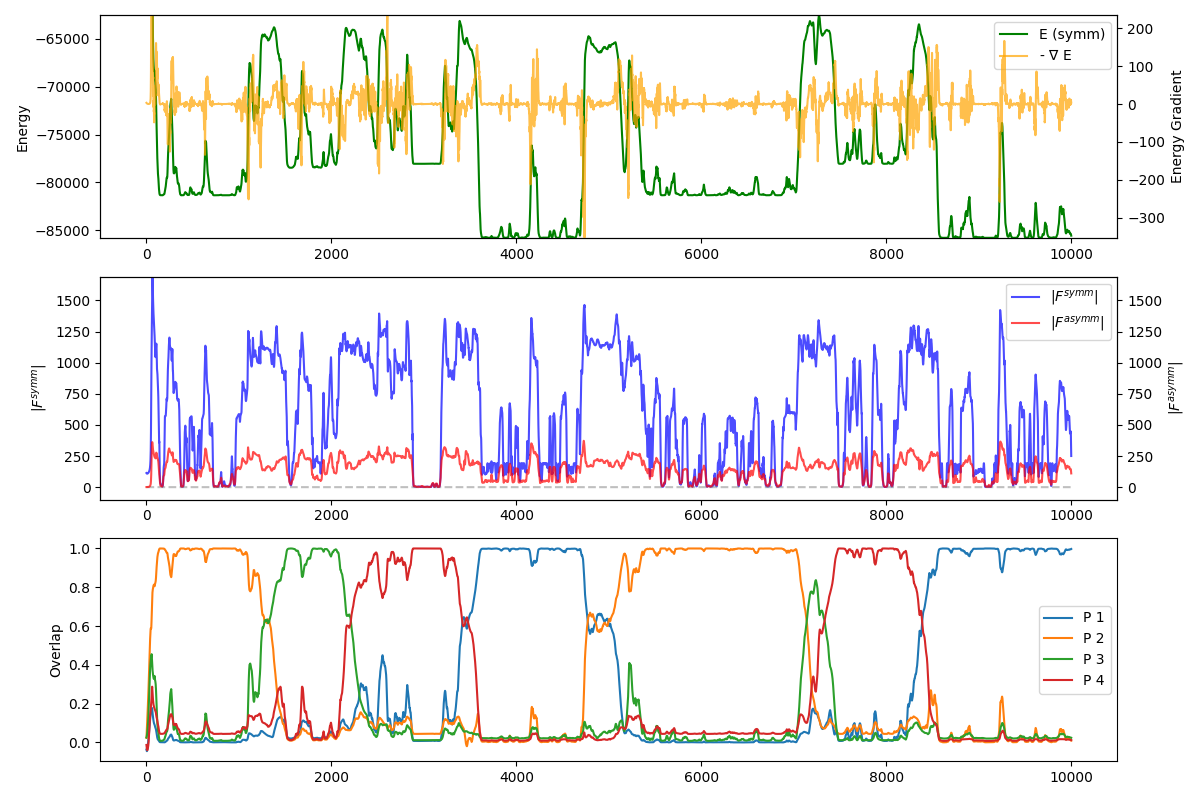
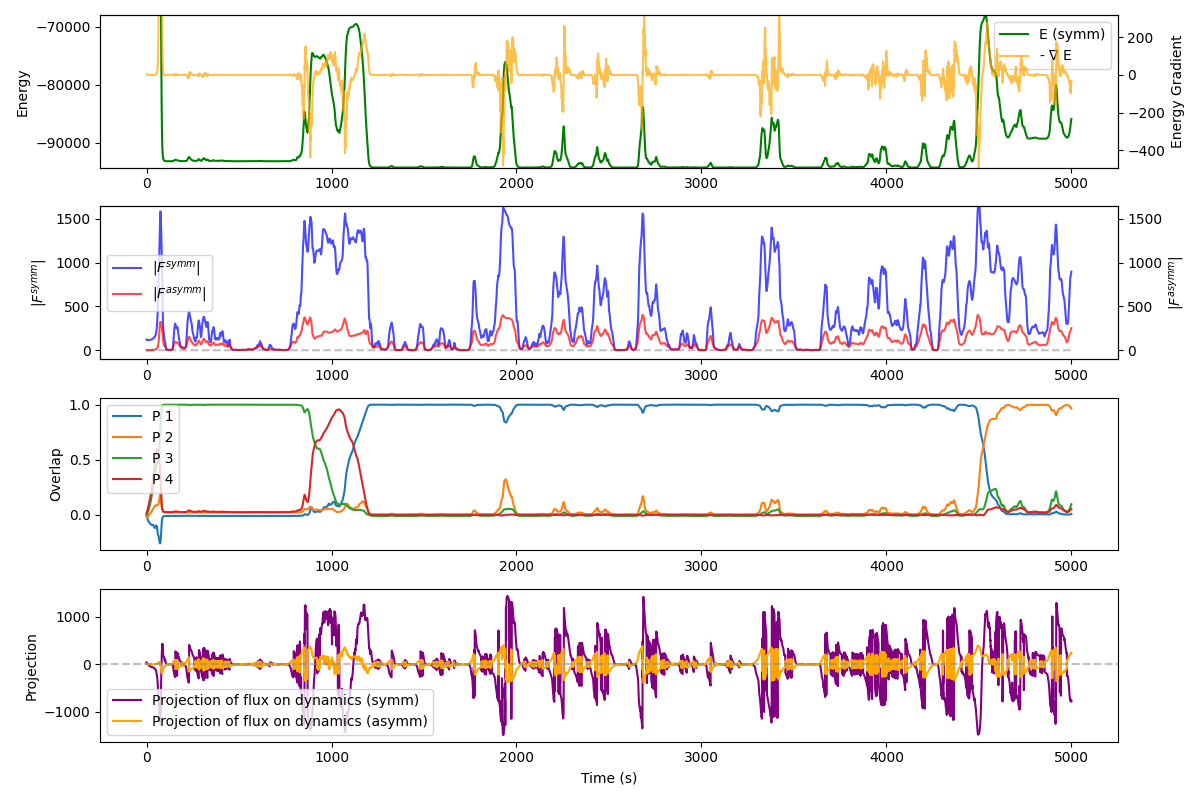
conn load

diff --git a/src/main.py b/src/main.py
@@ -71,7 +71,6 @@ from parameters import (
     runs,
     # Import connectivity or not
     import_connectivity,
-    connectivity_dir,
     # Seed for reproducibility
     seed
     )
@@ -86,14 +85,10 @@ def single_simulation(addition, W_S, W_A_sim, W, eta, phi_eta, t_span, ou_params
     """
     time_start = time.time() # Start time measurement
     np.random.seed(seed)  # for reproducibility
-    # Create output directories and show error message otherwise
-    try:
-        plot_dir = os.path.join(os.path.dirname(__file__), "..", f'{multiple_dir_name}{"_"}{N}', 'plots')
-        npy_dir = os.path.join(os.path.dirname(__file__), "..", f'{multiple_dir_name}{"_"}{N}', "npy")
-    except Exception as e:
-        logger.error(f"Error occurred while setting output directory: {e}")
-    os.makedirs(plot_dir, exist_ok=True)
-    os.makedirs(npy_dir, exist_ok=True)
+    # names of the output directories (already created in multiple_simulations, see below)
+    output_dir = os.path.join(os.path.dirname(__file__), "..", f'{multiple_dir_name}{"_"}{N}')
+    plot_dir = os.path.join(output_dir, 'plots')
+    npy_dir = os.path.join(output_dir, "npy")
 
     # Set up initial condition with proper noise calculation, no pattern index here (random)
     initial_condition = initial_condition_creator(init_cond_type, N, p=p, eta=eta, noise_level=noise_level)
@@ -190,30 +185,30 @@ def multiple_simulations():
     np.random.seed(seed)
 
     # Create the main output directory
-    output_dir_name = f'{multiple_dir_name}{"_"}{N}'
-    output_dir = os.path.join(os.path.dirname(__file__), "..", output_dir_name)
+    output_dir = os.path.join(os.path.dirname(__file__), "..", f'{multiple_dir_name}{"_"}{N}')
     os.makedirs(output_dir, exist_ok=True)
-    logger.info(f"Output directory created at: {output_dir}")
+    # Create the npy and plots subdirectories
+    npy_dir = os.path.join(output_dir, "npy")
+    os.makedirs(npy_dir, exist_ok=True)
+    plot_dir = os.path.join(output_dir, "plots")
+    os.makedirs(plot_dir, exist_ok=True)
+    logger.info(f"Output directories created at: {output_dir}")
 
-    # Generate or import connectivity matrices
-    if import_connectivity:
-        try:
-            connectivity_path_symmetric = os.path.join(connectivity_dir, "connectivity_symmetric.npy")
-            connectivity_path_asymmetric = os.path.join(connectivity_dir, "connectivity_asymmetric.npy")
-            W_S = np.load(connectivity_path_symmetric)
-            W_A = np.load(connectivity_path_asymmetric)
-            W = W_S + W_A
-            phi_eta = np.load(os.path.join(connectivity_dir, "phi_memory_patterns.npy"))
-            eta = inverse_sigmoid_function(phi_eta, r_m=phi_r_m, beta=phi_beta, x_r=phi_x_r)
-        except Exception as e:
-            logger.error(f"Error loading connectivity matrices: {e}")
-            return
-        logger.info(f"Imported connectivity matrices from {connectivity_dir}")
-    else:
-        # Generate connectivity matrix with all parameters
-        logger.info(
-            f"Generating connectivity matrices for {N} neurons with {p} patterns"
-        )
+    connectivity_path_symmetric = os.path.join(npy_dir, "connectivity_symmetric.npy")
+    connectivity_path_asymmetric = os.path.join(npy_dir, "connectivity_asymmetric.npy")
+    phi_eta_path = os.path.join(npy_dir, "phi_memory_patterns.npy")
+
+    def load_connectivity():
+        W_S = np.load(connectivity_path_symmetric)
+        W_A = np.load(connectivity_path_asymmetric)
+        W = W_S + W_A
+        phi_eta = np.load(phi_eta_path)
+        eta = inverse_sigmoid_function(phi_eta, r_m=phi_r_m, beta=phi_beta, x_r=phi_x_r)
+        logger.info(f"Imported connectivity matrices from {npy_dir}")
+        return W_S, W_A, W, eta, phi_eta
+    
+    def generate_connectivity():
+        logger.info(f"Generating connectivity matrices...")
         W_S, W_A, W, eta, phi_eta = generate_connectivity_matrix(
             N=N,
             p=p,
@@ -236,6 +231,17 @@ def multiple_simulations():
             enforce_max_correlation=enforce_max_correlation,
             max_correlation=max_correlation)
         logger.info("Matrices generated successfully!")
+        return W_S, W_A, W, eta, phi_eta
+
+    # Generate or import connectivity matrices
+    if import_connectivity:
+        try:
+            W_S, W_A, W, eta, phi_eta = load_connectivity()
+        except Exception as e:
+            logger.warning(f"Connectivity import failed ({e}). Generating new matrices.")
+            W_S, W_A, W, eta, phi_eta = generate_connectivity()
+    else:
+        W_S, W_A, W, eta, phi_eta = generate_connectivity()
 
     # Display matrix statistics if verbose 
     if verbose:
@@ -404,7 +410,7 @@ def multiple_simulations():
     np.save(os.path.join(npy_dir, "connectivity_asymmetric.npy"), W_A)
     np.save(os.path.join(npy_dir, "phi_memory_patterns.npy"), phi_eta)
 
-    for seed_index in range(13, 13+runs):  # Run multiple simulations
+    for seed_index in range(19, 19+runs):  # Run multiple simulations
         # transform the number of the seed into a string called addition
         addition = str(seed_index)
         single_simulation(addition, W_S, W_A_sim, W, eta, phi_eta, t_span, ou_params, seed=seed_index, verbose=verbose)

diff --git a/src/energy_plots.py b/src/energy_plots.py
@@ -9,7 +9,7 @@ import matplotlib.pyplot as plt
 from modules.activation import step_function
 from modules.connectivity import generate_connectivity_matrix, plot_matrix
 from modules.dynamics import simulate_network, calculate_pattern_overlaps
-from modules.energy import compute_energy, compute_forces
+from modules.energy import compute_energy, compute_forces, project_flux_on_dynamics
 
 # Import all parameters from parameters.py
 from parameters import (
@@ -110,7 +110,7 @@ def main():
     plt.figure(figsize=(12, 8))
 
     # --- subplot: Energy (left) and Flux (right) ---
-    ax1 = plt.subplot(311)
+    ax1 = plt.subplot(411)
     ax2 = ax1.twinx()  # create second y-axis
 
     # Energy on left y-axis
@@ -125,7 +125,7 @@ def main():
     ax1.legend(lines1 + lines2, labels1 + labels2, loc="best")
 
     # --- Subplot: Forces (symmetrical and asymmetrical) --- 
-    ax1 = plt.subplot(312)
+    ax1 = plt.subplot(412)
     ax2 = ax1.twinx()  # create second y-axis 
     ax1.plot(t, F_symm_norm, label='$|F^{symm}|$', color='blue', alpha=0.7)
     ax2.plot(t, F_asymm_norm, label='$|F^{asymm}|$', color='red', alpha=0.7)
@@ -142,15 +142,46 @@ def main():
     ax1.legend(lines1 + lines2, labels1 + labels2, loc="best")
 
     # --- subplot: Overlaps ---
-    plt.subplot(313)
+    plt.subplot(413)
     for i in range(p):
         plt.plot(t, overlaps[i], label=f'P {i+1}')
     plt.ylabel("Overlap")
     plt.legend()
 
+    plt.subplot(414)
+    # projection of the flux on the dynamics
+    print(np.shape(h), np.shape(F_symm), np.shape(F_asymm))
+    proj_flux_symm = project_flux_on_dynamics(h, F_symm)
+    proj_flux_asymm = project_flux_on_dynamics(h, F_asymm)
+    plt.plot(t, proj_flux_symm, label='Projection of flux on dynamics (symm)', color='purple')
+    plt.plot(t, proj_flux_asymm, label='Projection of flux on dynamics (asymm)', color='orange')
+    plt.axhline(0, color='gray', linestyle='--', alpha=0.5)
+    plt.ylabel("Projection")
+    plt.xlabel("Time (s)")
+    plt.legend()
+
+
     # Save + show
     plt.tight_layout()
     plt.savefig(os.path.join(output_dir, "energy_and_overlaps.png"))
+    if show_sim_plots:
+        plt.show()
+
+    plt.figure(figsize=(12, 8))
+    plt.subplot(211)
+    for i in range(p):
+        plt.plot(t, overlaps[i], label=f'P {i+1}')
+    plt.ylabel("Overlap")
+    plt.legend()
+    plt.subplot(212)
+    plt.plot(t, proj_flux_symm, label='Symm', color='purple')
+    plt.plot(t, proj_flux_asymm, label='Asymm', color='orange')
+    plt.axhline(0, color='gray', linestyle='--', alpha=0.5)
+    plt.ylabel("Flux Proj on Dynamics")
+    plt.xlabel("$t$")
+    plt.legend()
+    plt.tight_layout()
+    plt.savefig(os.path.join(output_dir, "overlaps_and_flux_projection.png"))
     if show_sim_plots:
         plt.show()
 

diff --git a/src/modules/energy.py b/src/modules/energy.py
@@ -127,6 +127,36 @@ def compute_forces(W_symm, W_asymm, h, tau=1.0, phi_beta=1.5, phi_r_m=30.0, phi_
         return F_symm[0], F_asymm[0]
     else:
         return F_symm, F_asymm, F_symm_avg, F_asymm_avg
+    
+def project_flux_on_dynamics(history, flux, eps=1e-12):
+    """
+    Compute the projection of the flux on the direction of the dynamics for each time step:
+        proj[t] = Flux(t) · (state(t+1) - state(t)) / ||state(t+1) - state(t)||
+
+    Args:
+        history: (M, N) array, states over time (M time steps, N neurons)
+        flux:    (M, N) array, flux over time (M time steps, N neurons)
+        eps:     small threshold to avoid division by zero
+
+    Returns:
+        proj: (M,) array of projections for t = 0..M-2, last entry same as M-2
+    """
+    if history.ndim != 2 or flux.ndim != 2:
+        raise ValueError("history and flux must be 2D arrays of shape (M, N).")
+    if history.shape != flux.shape:
+        raise ValueError("history and flux must have the same shape (M, N).")
+
+    M, N = history.shape
+    delta = np.diff(history, axis=0)             # (M-1, N), state(t+1) - state(t)
+    norms = np.linalg.norm(delta, axis=1)        # (M-1,)
+    dots = np.sum(flux[:-1, :] * delta, axis=1)  # (M-1,) this is flux(t) · delta(t)
+
+    proj = np.zeros(M - 1, dtype=float)
+    mask = norms > eps
+    proj[mask] = dots[mask] / norms[mask] # this is the normalized projection
+    proj = np.append(proj, proj[-1])  # keep length M
+    return proj
+
 
 def plot_energy_from_npy(files, W_symm, W_asymm, tau, neuron1=0, neuron2=1, phi_beta=1.5, phi_r_m=30.0, phi_x_r=2.0):
     """

diff --git a/src/parameters.py b/src/parameters.py
@@ -53,7 +53,7 @@ apply_er_to_asymmetric = False  # Apply Erdős-Rényi to asymmetric component
 # Time and integration parameters
 tau = 20.0              # Time constant for neural dynamics
 t_start = 0.0           # Simulation start time
-t_end = 5000.0           # Simulation end time
+t_end = 20.0           # Simulation end time
 dt = 0.4                # Time step for simulation output (increased for efficiency)
 
 # Performance optimization
@@ -93,7 +93,6 @@ multiple_dir_name = "multiple_simulations"
 runs = 3
 # Import connectivity or not
 import_connectivity = True
-connectivity_dir = os.path.join(os.path.dirname(__file__), "..", "multiple_simulations_1500", "npy")
 
 
 # =============================================================================
